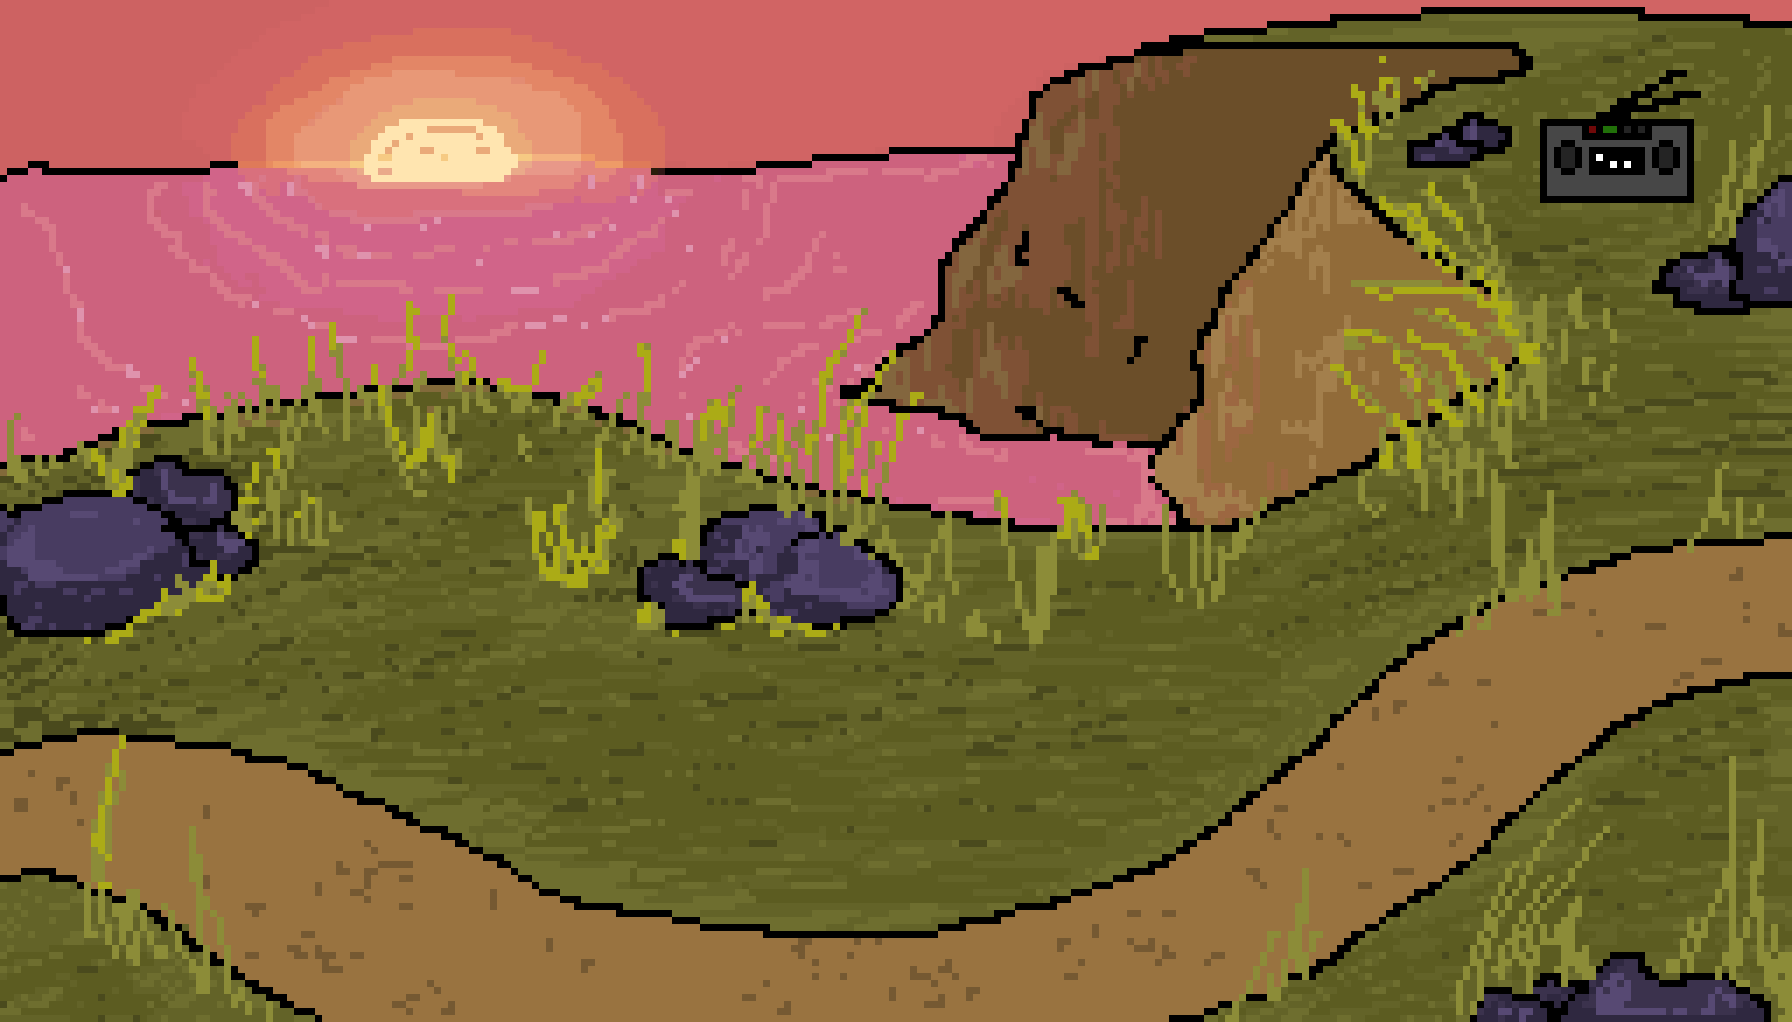
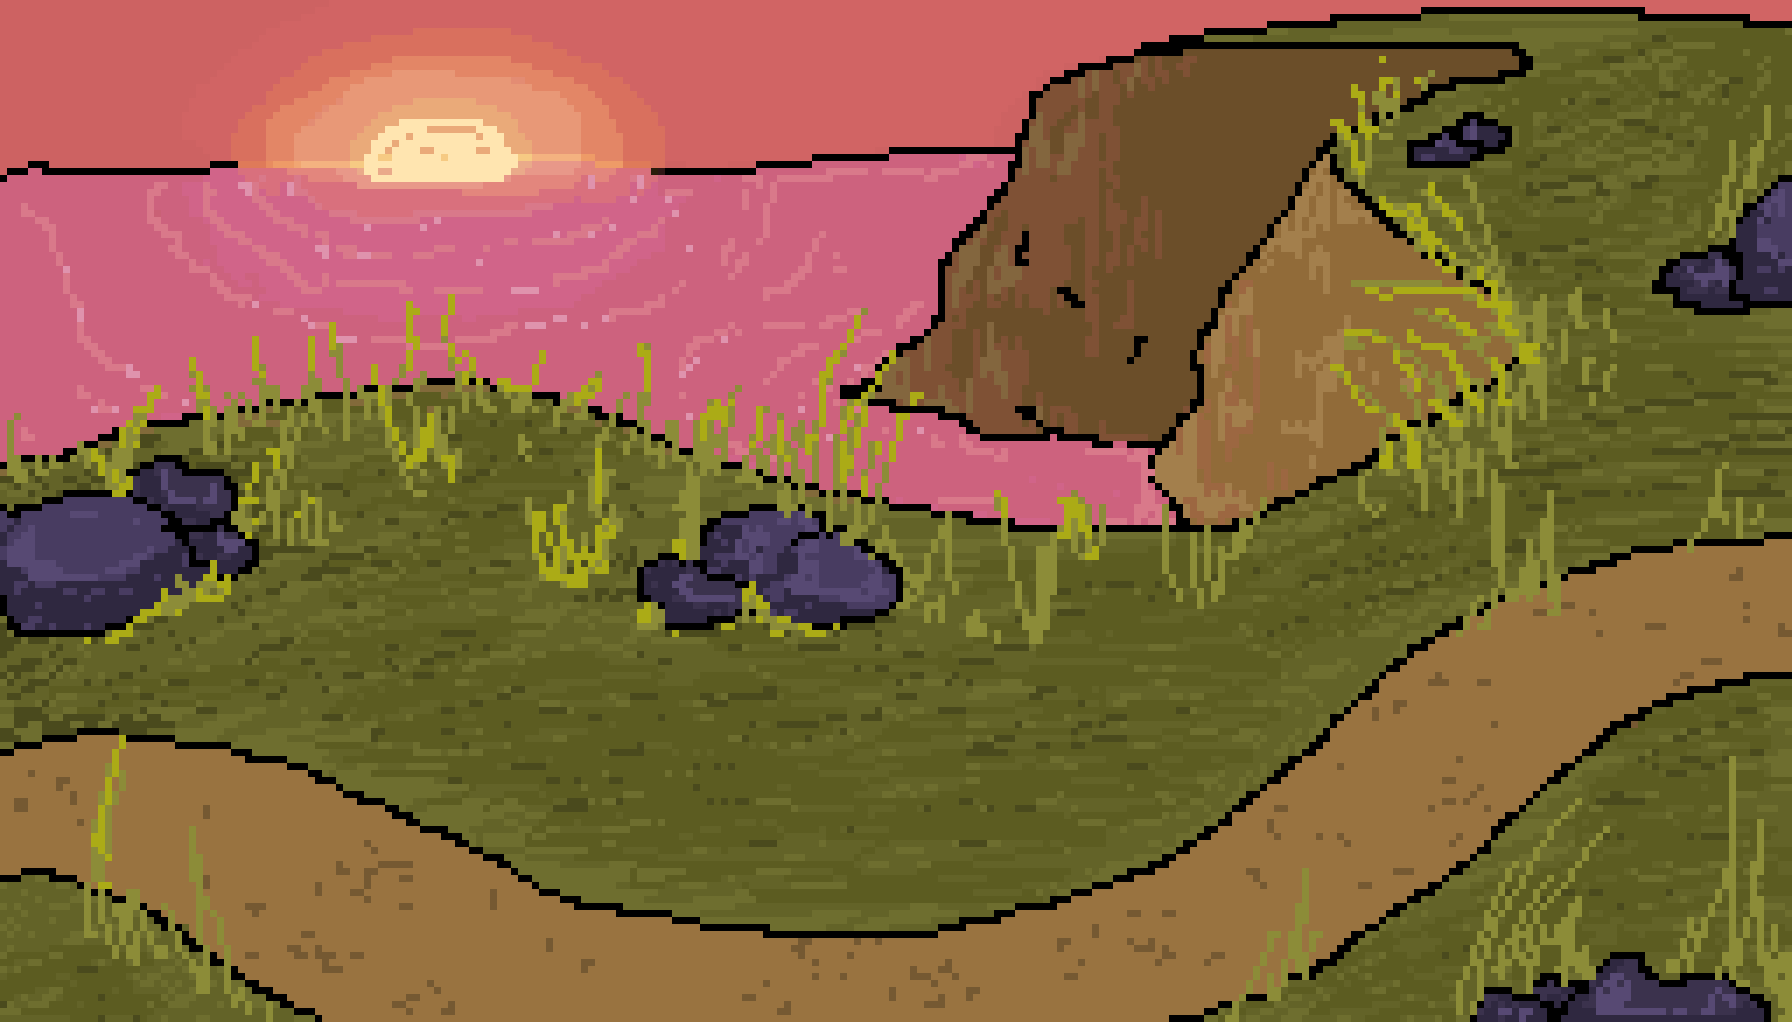
placed objects in correct spots

Changed region(s): [[0.8438, 0.0607, 0.9688, 0.2123]]

diff --git a/js/ParkOfFirsts.js b/js/ParkOfFirsts.js
@@ -8,7 +8,7 @@ class ParkOfFirsts extends Phaser.Scene {
     preload() {
         console.log("Preloading assets for ParkOfFirsts...");
         this.load.image("lake_background", "data/lake.png");
-        this.load.image("player", "data/colby.png");
+        // this.load.image("player", "data/colby.png");
         this.load.image("lake_zone", "data/lake_zone.png");
         this.load.image("lake_cutscene", "data/cold_plunge_memory.png");
     }
@@ -20,8 +20,7 @@ class ParkOfFirsts extends Phaser.Scene {
         this.lake_background = this.add.image(896, 511, "lake_background").setDisplaySize(1792, 1022);
         this.player = new Player(this, 896, 511);
 
-        this.lake_zone = this.physics.add.sprite(446, 36, "lake_zone");
-        console.log("Lake object created at: 446, 36");
+        this.lake_zone = this.physics.add.sprite(426, 121, "lake_zone").setScale(1.2);
         this.interactionTriggered = false;  // Flag to ensure cutscene plays only once
         this.playerEnabled = false;  // Disable player movement at the start
 
@@ -53,17 +52,30 @@ class ParkOfFirsts extends Phaser.Scene {
         if (this.playerEnabled) {
             this.player.update();
         }
-
+    
+        // Check if the player is hovering over the lake
         if (this.checkManualCollision(this.player.player, this.lake_zone)) {
-            if (this.interactionTriggered) return;  // Exit if already triggered
-            this.interactionTriggered = true;  // Ensure cutscene only plays once
-            
-            this.showLakeCutscene([
-                "The cold plunge! A moment of adventure and laughter.",
-                "You remember the joy it brought."
-            ]);
+            if (!this.hoverTimer) {  // Start hover timer if not already started
+                console.log("Player entered lake zone. Starting hover timer...");
+                this.hoverTimer = this.time.delayedCall(1200, () => {
+                    if (this.interactionTriggered) return;  // Ensure cutscene only plays once
+                    console.log("Hover time complete. Triggering cutscene...");
+                    this.interactionTriggered = true;
+                    this.showLakeCutscene([
+                        "The cold plunge! A moment of adventure and laughter.",
+                        "You remember the joy it brought."
+                    ]);
+                }, [], this);
+            }
+        } else {
+            if (this.hoverTimer) {
+                console.log("Player left lake zone. Resetting hover timer.");
+                this.hoverTimer.remove();  // Cancel the timer if the player leaves
+                this.hoverTimer = null;
+            }
         }
     }
+    
 
     checkManualCollision(spriteA, spriteB) {
         const boundsA = spriteA.getBounds();

diff --git a/js/DreamyApartment.js b/js/DreamyApartment.js
@@ -10,7 +10,7 @@ class DreamyApartment extends Phaser.Scene {
         this.load.image("apt_background", "data/apartment.png");
         this.load.image("apt_cutscene", "data/cold_plunge_memory.png");
         this.load.image("photo_frame", "data/photo_frame.png");
-        // this.load.image("player", "data/colby.png");
+        this.load.image("player", "data/colby.png");
     }
 
     create() {
@@ -18,8 +18,8 @@ class DreamyApartment extends Phaser.Scene {
 
         // Initialize the apt_background and interactive photo_frame
         this.apt_background = this.add.image(896, 511, "apt_background").setDisplaySize(1792, 1022);
-        this.player = new Player(this, 896, 511, "photo_frame");  // Center the player
-        this.trigger = this.physics.add.sprite(896, 186, "photo_frame").setInteractive().setVisible(true);
+        this.player = new Player(this, 896, 511);  // Center the player
+        this.trigger = this.physics.add.sprite(886, 201, "photo_frame").setInteractive().setVisible(true).setScale(1.2);
         console.log("object created at: 896, 186");
 
         // Start the initial dialogue

diff --git a/js/HouseOfTraditions.js b/js/HouseOfTraditions.js
@@ -18,10 +18,10 @@ class HouseOfTraditions extends Phaser.Scene {
 
         // Initialize background and player
         this.hanok_background = this.add.image(896, 511, "hanok_background").setDisplaySize(1792, 1022);
-        this.player = new Player(this, 896, 511);  // Center the player
+        this.player = new Player(this, 896, 511);
         console.log("Hanok background and player created.");
 
-        this.grandma_object = this.physics.add.sprite(1571, 761, "grandma_object").setInteractive().setVisible(true).setOrigin(0.5);
+        this.grandma_object = this.physics.add.sprite(1571, 761, "grandma_object").setInteractive().setVisible(true).setOrigin(0.5).setScale(0.8);
         console.log("Grandma NPC added at: 1571, 761");
 
         this.playerEnabled = false;  // Player movement is initially disabled

diff --git a/js/BeachOfLaughter.js b/js/BeachOfLaughter.js
@@ -18,10 +18,10 @@ class BeachOfLaughter extends Phaser.Scene {
 
         // Initialize background and player
         this.beach_background = this.add.image(896, 511, "beach_background").setDisplaySize(1792, 1022);
-        this.player = new Player(this, 896, 511);  // Center the player
+        this.player = new Player(this, 966, 691); 
         console.log("Beach background and player created.");
 
-        this.radio_object = this.physics.add.sprite(1621, 186, "radio_object").setInteractive().setVisible(true).setScale(1.2);
+        this.radio_object = this.physics.add.sprite(1626, 141, "radio_object").setInteractive().setVisible(true).setScale(1.1);
         console.log("Music box added at: 400, 300");
 
         this.playerEnabled = false;  // Player movement is initially disabled

diff --git a/js/Player.js b/js/Player.js
@@ -12,15 +12,15 @@ export default class Player {
 
     update() {
         if (this.keys.left.isDown) {
-            this.player.x -= 25;
+            this.player.x -= 10;
         } else if (this.keys.right.isDown) {
-            this.player.x += 25;
+            this.player.x += 10;
         }
 
         if (this.keys.up.isDown) {
-            this.player.y -= 25;
+            this.player.y -= 10;
         } else if (this.keys.down.isDown) {
-            this.player.y += 25;
+            this.player.y += 10;
         }
         console.log(`Player position: (${this.player.x}, ${this.player.y})`);
     }
